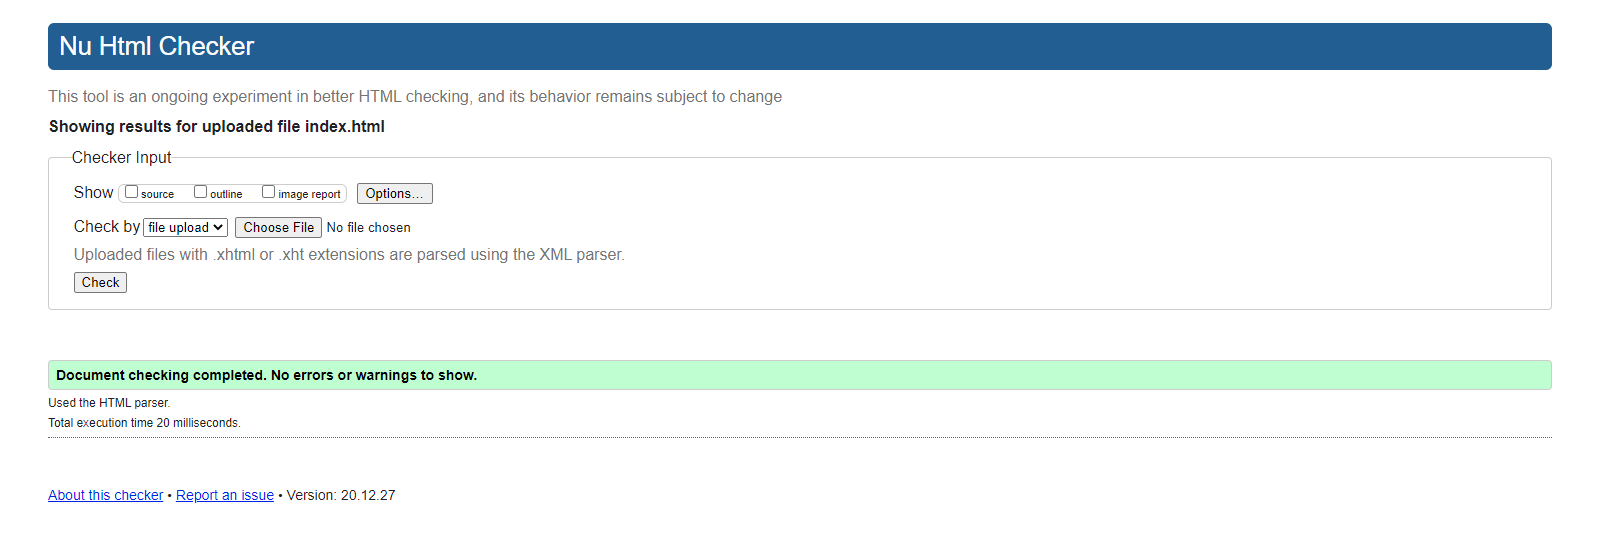
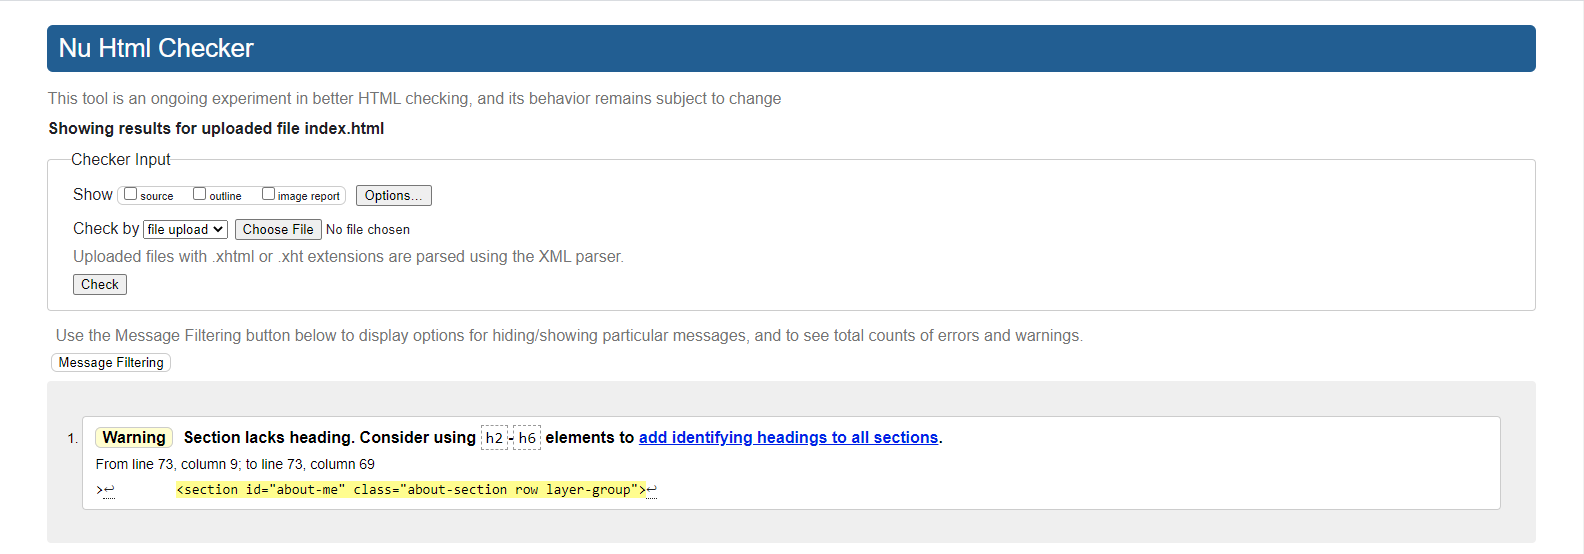
Adding semantic tags

diff --git a/index.html b/index.html
@@ -55,43 +55,45 @@
 
         <!-- Header -->
         <!-- Can't use semantic tags because it interferes with the parallax scrolling on Firefox -->
-        <div id="main-header" class="layer-group header-section">
+        <header id="main-header" class="layer-group header-section">
             <div class="layer backer">
                 <div class="header">Ben Kelly</div>
             </div>
             <div class="layer back">
                 <div class="caption">Personal Portfolio</div>
             </div>
-        </div>
+        </header>
         <!-- END of header -->
 
         <!-- All About Ben Section - A section all about... Ben -->
         <!-- Can't use semantic tags because it interferes with the parallax scrolling on Firefox -->
-        <div class="about-bg">
-            <span class="about-header text-center">All About Ben</span>
-        </div>
-        <section id="about-me" class="about-section row layer-group">
-            <div class="col-xl-4 col-12 inner-txt lil-ben-txt">
-                <span class="about-txt">My name is Ben Kelly. I was born and raised in the seaside town of Galway, in the West
-                    of Ireland. I am currently 18 years old. I love sports (especially basketball), technology, and Christmas.</span>
+        <section id="about-me-section">
+            <div class="about-bg">
+                <h2 class="about-header text-center">All About Ben</h2>
             </div>
-            <div class="layer base">
-                <div class="lil-ben outer-img"><span class="sr-only">Picture of me in Legoland aged 6</span></div>
-            </div>
-            <div class="col-xl-4 col-12 inner-txt middle-ben-txt">
-                <span class="about-txt">I watch every single sport imaginable and I also play basketball, Gaelic football (a native Irish sport) and rugby. 
-                    I have captained teams in all 3 of those sports and was a starter in each. I have 7 individual awards in all 3.</span>
-            </div>
-            <div class="layer backer">
-                <div class="middle-ben outer-img"><span class="sr-only">Picture of a me playing basketball</span></div>
-            </div>
-            <div class="col-xl-4 col-12 inner-txt big-ben-txt">
-                <span class="about-txt col-lg-4 col-sm-12">I work at Stronger Made Ltd., a contracting company based here in Galway. 
-                I get to work my dream job in technology, and explore my passion for innovation through different programming 
-                languages and problem solving.</span>
-            </div>
-            <div class="layer back">
-                <div class="big-ben outer-img"><span class="sr-only">Picture of a me in a suit</span></div>
+            <div id="about-me" class="about-section row layer-group">
+                <div class="col-xl-4 col-12 inner-txt lil-ben-txt">
+                    <span class="about-txt">My name is Ben Kelly. I was born and raised in the seaside town of Galway, in the West
+                        of Ireland. I am currently 18 years old. I love sports (especially basketball), technology, and Christmas.</span>
+                </div>
+                <div class="layer base">
+                    <div class="lil-ben outer-img"><span class="sr-only">Picture of me in Legoland aged 6</span></div>
+                </div>
+                <div class="col-xl-4 col-12 inner-txt middle-ben-txt">
+                    <span class="about-txt">I watch every single sport imaginable and I also play basketball, Gaelic football (a native Irish sport) and rugby. 
+                        I have captained teams in all 3 of those sports and was a starter in each. I have 7 individual awards in all 3.</span>
+                </div>
+                <div class="layer backer">
+                    <div class="middle-ben outer-img"><span class="sr-only">Picture of a me playing basketball</span></div>
+                </div>
+                <div class="col-xl-4 col-12 inner-txt big-ben-txt">
+                    <span class="about-txt col-lg-4 col-sm-12">I work at Stronger Made Ltd., a contracting company based here in Galway. 
+                    I get to work my dream job in technology, and explore my passion for innovation through different programming 
+                    languages and problem solving.</span>
+                </div>
+                <div class="layer back">
+                    <div class="big-ben outer-img"><span class="sr-only">Picture of a me in a suit</span></div>
+                </div>
             </div>
         </section>
         <!-- END of All About Ben section -->
@@ -300,37 +302,39 @@
             </div>
         </section>
         <!-- END of Work Experience section -->
+    
+
+        <!-- Footer Section with links for relevant social media, and business accounts, and contact information -->
+        <footer class="footer container-fluid">
+            <div class="main-row row">
+                <div class="fb social col">
+                    <a  target="_blank" href="https://www.facebook.com/ben.kelly.7509"><i class="fab fa-facebook-f"></i><span class="sr-only">Facebook link</span></a>
+                </div>
+                <div class="li social col">
+                    <a  target="_blank" href="https://www.linkedin.com/in/ben-kelly-a36b001b2/"><i class="fab fa-linkedin-in"></i><span class="sr-only">LinkedIn link</span></a>
+                </div>
+                <div class="ig social col">
+                    <a  target="_blank" href="https://www.instagram.com/benkelly___/"><i class="fab fa-instagram"></i><span class="sr-only">Instagram link</span></a>
+                </div>
+                <div class="gh social col">
+                    <a  target="_blank" href="https://github.com/gamefootage"><i class="fab fa-github"></i><span class="sr-only">GitHub link</span></a>
+                </div>
+                <div class="gm social col">
+                    <a target="_blank" href="mailto:benskelly10@gmail.com"><i class="far fa-envelope"></i><span class="sr-only">Gmail link</span></a>
+                </div>
+                <div class="wa social col">
+                    <a  target="_blank" href="https://wa.me/353852030033"><i class="fab fa-whatsapp"></i><span class="sr-only">WhatsApp link</span></a>
+                </div>
+                <div class="col-lg-5 col-sm-12 text-center address">
+                    <a target="_blank" href="https://goo.gl/maps/LJCFoNLXqws8qawE8">
+                        <i class="fas fa-map-pin stretched-link"></i> <span>Location: Galway City, Galway, Ireland</span>
+                    </a>
+                </div>
+            </div>
+        </footer>
+        <!-- END of footer -->
+
     </div>
     <!-- END of parallax container -->
-
-    <!-- Footer Section with links for relevant social media, and business accounts, and contact information -->
-    <footer class="footer container-fluid">
-        <div class="main-row row">
-            <div class="fb social col">
-                <a  target="_blank" href="https://www.facebook.com/ben.kelly.7509"><i class="fab fa-facebook-f"></i><span class="sr-only">Facebook link</span></a>
-            </div>
-            <div class="li social col">
-                <a  target="_blank" href="https://www.linkedin.com/in/ben-kelly-a36b001b2/"><i class="fab fa-linkedin-in"></i><span class="sr-only">LinkedIn link</span></a>
-            </div>
-            <div class="ig social col">
-                <a  target="_blank" href="https://www.instagram.com/benkelly___/"><i class="fab fa-instagram"></i><span class="sr-only">Instagram link</span></a>
-            </div>
-            <div class="gh social col">
-                <a  target="_blank" href="https://github.com/gamefootage"><i class="fab fa-github"></i><span class="sr-only">GitHub link</span></a>
-            </div>
-            <div class="gm social col">
-                <a target="_blank" href="mailto:benskelly10@gmail.com"><i class="far fa-envelope"></i><span class="sr-only">Gmail link</span></a>
-            </div>
-            <div class="wa social col">
-                <a  target="_blank" href="https://wa.me/353852030033"><i class="fab fa-whatsapp"></i><span class="sr-only">WhatsApp link</span></a>
-            </div>
-            <div class="col-lg-5 col-sm-12 text-center address">
-                <a target="_blank" href="https://goo.gl/maps/LJCFoNLXqws8qawE8">
-                    <i class="fas fa-map-pin stretched-link"></i> <span>Location: Galway City, Galway, Ireland</span>
-                </a>
-            </div>
-        </div>
-    </footer>
-    <!-- END of footer -->
 </body>
 </html>

diff --git a/assets/css/style.css b/assets/css/style.css
@@ -222,6 +222,10 @@ body {
 
 /* -------------------------------------------------------------------About */
 
+#about-me-section {
+    display: initial !important;
+}
+
 .about-section {
     background-color: #2c2c2c;
     z-index: 4;
@@ -238,7 +242,7 @@ body {
 }
 
 .about-header {
-    font-family: 'Bebas Neue', cursive;
+    font-family: 'Bebas Neue', sans-serif;
     width: max-content;
     font-size: 6rem;
     line-height: 10rem;

diff --git a/README.md b/README.md
@@ -74,9 +74,11 @@ It tells the user all about me, my background, my interests, and my work and wor
 ### **Validators**
 The W3C Markup Validator and W3C CSS Validator Services were used to validate every page of the project to ensure there were no syntax errors in the project.
    - [W3C Markup Validator](https://validator.w3.org/) - [Results](./docs/markup-validator-results.png)
-   - [W3C CSS Validator](https://jigsaw.w3.org/css-validator/) - [Results](./docs/css-validator-results.png)*
+   - [W3C CSS Validator](https://jigsaw.w3.org/css-validator/) - [Results](./docs/css-validator-results.png)**
      
-***Note:** Mozilla themselves state that text is a valid value of background-clip [here](https://developer.mozilla.org/en-US/docs/Web/CSS/background-clip). All browsers, bar Internet Explorer, accept the text value of -webkit-background-clip. Also -webkit-overflow-scrolling is used on iOS Safari, as described on [Mozilla's article](https://developer.mozilla.org/en-US/docs/Web/CSS/-webkit-overflow-scrolling) on it. [Here](./docs/safari-overflow-scrolling.png) is a screenshot of the compatability of it.
+***Note:** Section does have a header (h2) but it is just outside the section to account for parallax effect.
+
+****Note:** Mozilla themselves state that text is a valid value of background-clip [here](https://developer.mozilla.org/en-US/docs/Web/CSS/background-clip). All browsers, bar Internet Explorer, accept the text value of -webkit-background-clip. Also -webkit-overflow-scrolling is used on iOS Safari, as described on [Mozilla's article](https://developer.mozilla.org/en-US/docs/Web/CSS/-webkit-overflow-scrolling) on it. [Here](./docs/safari-overflow-scrolling.png) is a screenshot of the compatability of it.
 
 ### **Tesing User stories from User Experience Section**
  - ### First Time User Goals
